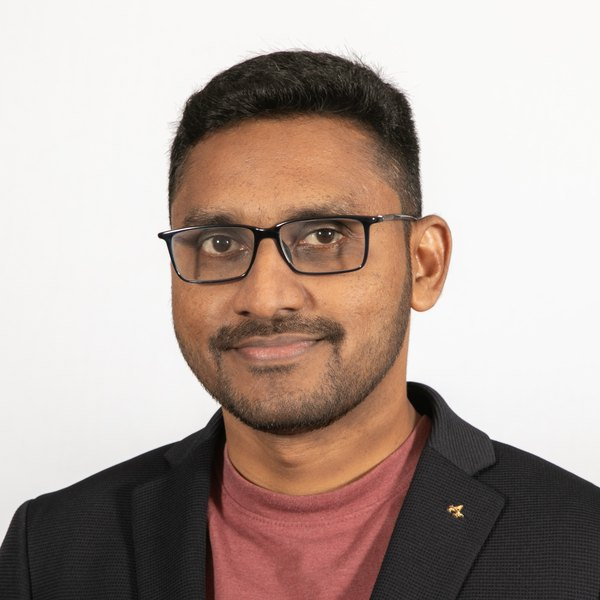
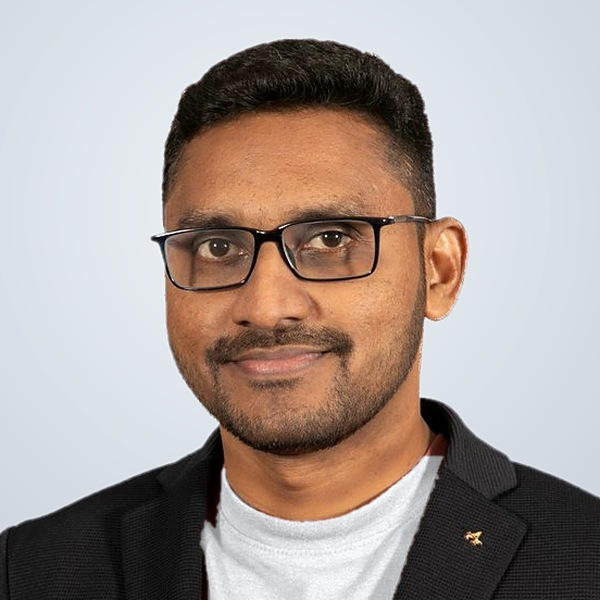
Professional photo, both AI innovation badges, plain-language About, AI skills group

diff --git a/index.html b/index.html
@@ -61,6 +61,8 @@
   .built{background:#fff;border-radius:12px;padding:14px 18px;text-align:center;max-width:280px;color:var(--teal-900);font-size:13px;text-decoration:none;border:1px solid var(--teal-200)}
   .built strong{display:block;font-size:14px;margin-bottom:2px}
   .built:hover{border-color:var(--teal-500)}
+  .built-list{display:flex;flex-direction:column;gap:10px;width:100%;max-width:280px}
+  .built-list .built{max-width:none}
 
   /* Stats */
   .stats{display:grid;grid-template-columns:repeat(4,1fr)}
@@ -76,6 +78,11 @@
   h2{font-size:28px;line-height:1.25;margin:0 0 28px;font-weight:700;letter-spacing:-.01em}
   .about{display:grid;grid-template-columns:1.6fr 1fr;gap:48px;align-items:start}
   .about p{margin:0 0 14px;color:var(--muted);font-size:16px}
+  .innov{margin:0 0 14px;padding-left:20px;color:var(--muted);font-size:16px}
+  .innov li{margin-bottom:10px}
+  .innov b{color:var(--teal-900)}
+  .innov a{color:var(--amber-dark);font-weight:600;text-decoration:none;white-space:nowrap}
+  .innov a:hover{text-decoration:underline}
   .facts{background:var(--bg-soft);border:1px solid var(--line);border-radius:12px;padding:20px 22px;font-size:14px}
   .facts div{display:flex;justify-content:space-between;gap:12px;padding:8px 0;border-bottom:1px solid var(--line)}
   .facts div:last-child{border-bottom:0}
@@ -106,6 +113,7 @@
   .series li span:last-child{color:var(--muted);white-space:nowrap}
 
   .skills{display:grid;grid-template-columns:repeat(2,1fr);gap:24px 40px}
+  .skills > div:first-child{grid-column:1/-1}
   .skills h3{font-size:14px;margin:0 0 10px;color:var(--teal-900)}
   .chips{display:flex;flex-wrap:wrap;gap:8px}
   .chips span{border:1px solid var(--line);background:#fff;font-size:13px;padding:5px 12px;border-radius:999px}
@@ -144,6 +152,7 @@
     .hero-main{padding:40px 16px}
     .certs{grid-template-columns:1fr}
     .built{max-width:none}
+    .built-list{max-width:none;flex:1 1 220px}
   }
 </style>
 </head>
@@ -204,10 +213,16 @@
   </div>
   <div class="hero-side">
     <img class="photo" src="assets/photo.jpg" alt="Ganesh Kumar" width="220" height="220">
-    <a class="built" href="https://github.com/ganeshkumarinspire/linkedin-post-agent" target="_blank" rel="noopener">
-      <strong><span lang="en">Built: LinkedIn Post Agent</span><span lang="fr">Réalisé : LinkedIn Post Agent</span></strong>
-      Python · GitHub Actions · GPT-4o
-    </a>
+    <div class="built-list">
+      <a class="built" href="https://retro-pattern-analyser-2srxmmskzetfmuz2vri7hg.streamlit.app/" target="_blank" rel="noopener">
+        <strong><span lang="en">Built: Retro Pattern Analyser</span><span lang="fr">Réalisé : Retro Pattern Analyser</span></strong>
+        Python · Streamlit · <span lang="en">Agentic AI</span><span lang="fr">IA agentique</span>
+      </a>
+      <a class="built" href="https://github.com/ganeshkumarinspire/linkedin-post-agent" target="_blank" rel="noopener">
+        <strong><span lang="en">Built: LinkedIn Post Agent</span><span lang="fr">Réalisé : LinkedIn Post Agent</span></strong>
+        Python · GitHub Actions · <span lang="en">Agentic AI</span><span lang="fr">IA agentique</span>
+      </a>
+    </div>
   </div>
 </header>
 
@@ -223,16 +238,26 @@
   <div class="wrap about">
     <div>
       <p class="label"><span lang="en">About</span><span lang="fr">À propos</span></p>
-      <h2><span lang="en">From quality engineering to Agile delivery leadership</span><span lang="fr">De l'ingénierie qualité au pilotage de la livraison Agile</span></h2>
+      <h2><span lang="en">From quality engineering to AI-enabled Agile delivery</span><span lang="fr">De l'ingénierie qualité à la livraison Agile augmentée par l'IA</span></h2>
       <div lang="en">
         <p>I started in quality engineering, testing warehouse, transport and e-commerce platforms for Walmart, Target and The Home Depot. That's where I learned where delivery usually breaks: late feedback, unclear priorities and hidden dependencies between teams.</p>
         <p>Over the years I moved into Scrum Master and delivery roles for Verizon, Adidas, ABB and ADM, working from India with distributed client teams in the US, Germany, Switzerland and the UK. I facilitate Scrum and SAFe events, coach Product Owners on the backlog, and track velocity, lead time and DORA metrics so improvement is based on data, not opinion.</p>
-        <p>Today I also apply AI to Agile work: automated reporting, backlog support and sprint-risk insights. I've built two agentic AI tools of my own, a Retro Pattern Analyser and a LinkedIn Post Agent. I'm completing an MSc in Supply Chain Management at Audencia Business School.</p>
+        <p>Today I don't just talk about AI, I build with it. I've designed and built two agentic AI tools that solve real delivery problems:</p>
+        <ul class="innov">
+          <li><b>Retro Pattern Analyser.</b> Teams often raise the same problems sprint after sprint, and nobody checks whether their fixes worked. This tool reads retro notes from many sprints, shows which problems keep coming back, and checks whether the actions the team agreed actually solved them. It then uses AI to explain the likely causes and suggest next steps. <a href="https://retro-pattern-analyser-2srxmmskzetfmuz2vri7hg.streamlit.app/" target="_blank" rel="noopener">Try the live demo →</a></li>
+          <li><b>LinkedIn Post Agent.</b> An AI agent that runs my LinkedIn content. I create each day's visual with ChatGPT prompts; the agent writes a matching post, checks that the text fits the image and publishes it on schedule. It has run more than 140 times automatically. <a href="https://github.com/ganeshkumarinspire/linkedin-post-agent" target="_blank" rel="noopener">See the code →</a></li>
+        </ul>
+        <p>I'm also completing an MSc in Supply Chain Management at Audencia Business School.</p>
       </div>
       <div lang="fr">
         <p>J'ai commencé dans l'ingénierie qualité, en testant des plateformes d'entrepôt, de transport et d'e-commerce pour Walmart, Target et The Home Depot. C'est là que j'ai compris où la livraison se grippe le plus souvent : un feedback tardif, des priorités floues et des dépendances cachées entre équipes.</p>
         <p>Au fil des années, j'ai évolué vers des rôles de Scrum Master et de pilotage de la livraison pour Verizon, Adidas, ABB et ADM, depuis l'Inde, avec des équipes clientes distribuées aux États-Unis, en Allemagne, en Suisse et au Royaume-Uni. J'anime les événements Scrum et SAFe, j'accompagne les Product Owners sur le backlog et je suis la vélocité, le lead time et les métriques DORA pour que l'amélioration repose sur des données, pas sur des opinions.</p>
-        <p>J'intègre aujourd'hui l'IA dans le travail Agile : reporting automatisé, aide à la gestion du backlog et indicateurs de risque de sprint. J'ai développé deux outils d'IA agentique : un Retro Pattern Analyser et un LinkedIn Post Agent. Je termine un Master en Supply Chain Management à Audencia Business School.</p>
+        <p>Aujourd'hui, je ne me contente pas de parler d'IA : je construis avec. J'ai conçu et développé deux outils d'IA agentique qui répondent à de vrais problèmes de livraison :</p>
+        <ul class="innov">
+          <li><b>Retro Pattern Analyser.</b> Les équipes remontent souvent les mêmes problèmes de sprint en sprint, sans vérifier si leurs actions ont fonctionné. Cet outil analyse les notes de rétrospective de plusieurs sprints, montre les problèmes qui reviennent et vérifie si les actions décidées les ont vraiment résolus. Il utilise ensuite l'IA pour expliquer les causes probables et proposer les prochaines étapes. <a href="https://retro-pattern-analyser-2srxmmskzetfmuz2vri7hg.streamlit.app/" target="_blank" rel="noopener">Essayer la démo →</a></li>
+          <li><b>LinkedIn Post Agent.</b> Un agent IA qui gère mon contenu LinkedIn. Je crée le visuel du jour avec des prompts ChatGPT ; l'agent rédige un post adapté, vérifie que le texte correspond à l'image et le publie selon un planning. Plus de 140 exécutions automatisées à ce jour. <a href="https://github.com/ganeshkumarinspire/linkedin-post-agent" target="_blank" rel="noopener">Voir le code →</a></li>
+        </ul>
+        <p>Je termine également un Master en Supply Chain Management à Audencia Business School.</p>
       </div>
     </div>
     <dl class="facts">
@@ -351,6 +376,10 @@
     <p class="label"><span lang="en">Skills</span><span lang="fr">Compétences</span></p>
     <h2><span lang="en">Skills and certifications</span><span lang="fr">Compétences et certifications</span></h2>
     <div class="skills">
+      <div>
+        <h3><span lang="en">AI and automation</span><span lang="fr">IA et automatisation</span></h3>
+        <div class="chips"><span lang="en">Generative AI</span><span lang="fr">IA générative</span><span lang="en">Agentic AI</span><span lang="fr">IA agentique</span><span lang="en">AI agents</span><span lang="fr">Agents IA</span><span>Prompt engineering</span><span>LLMs (ChatGPT, GPT-4o)</span><span lang="en">Workflow automation</span><span lang="fr">Automatisation des workflows</span><span>Python</span><span>Streamlit</span><span>GitHub Actions</span></div>
+      </div>
       <div>
         <h3><span lang="en">Agile and delivery</span><span lang="fr">Agile et livraison</span></h3>
         <div class="chips"><span>Scrum</span><span>SAFe 6.0</span><span>Kanban</span><span>PI Planning</span><span lang="en">Agile coaching</span><span lang="fr">Coaching Agile</span><span lang="en">UAT coordination</span><span lang="fr">Coordination UAT</span><span>CI/CD</span><span lang="en">DORA metrics</span><span lang="fr">Métriques DORA</span></div>
